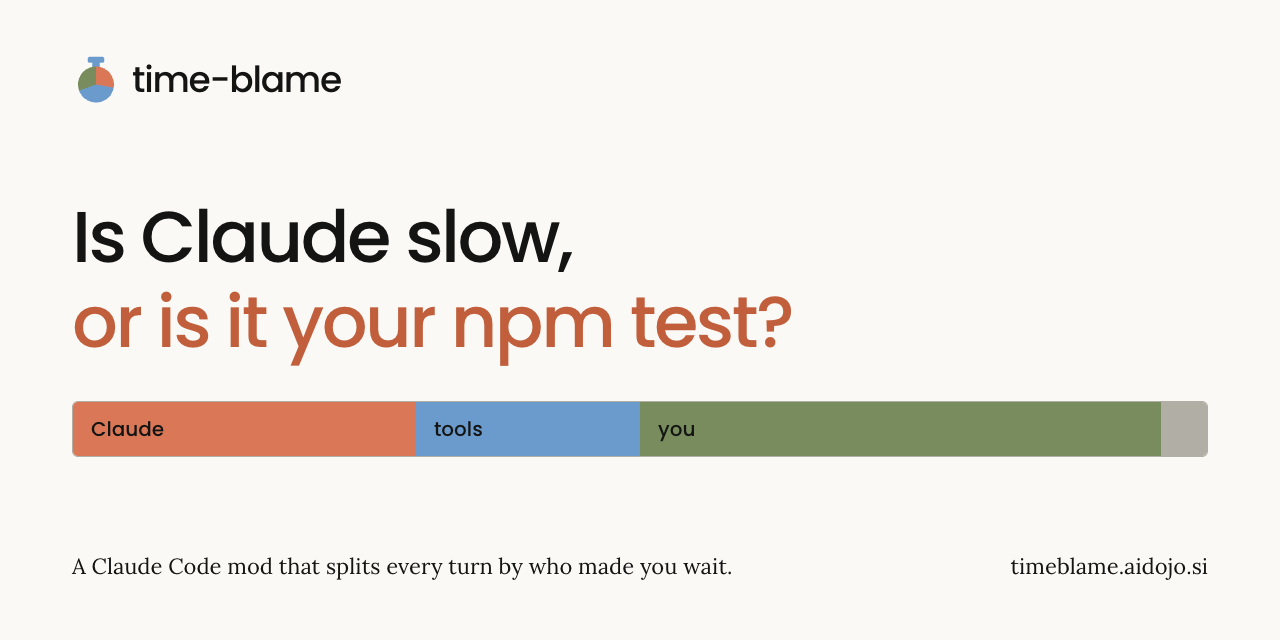
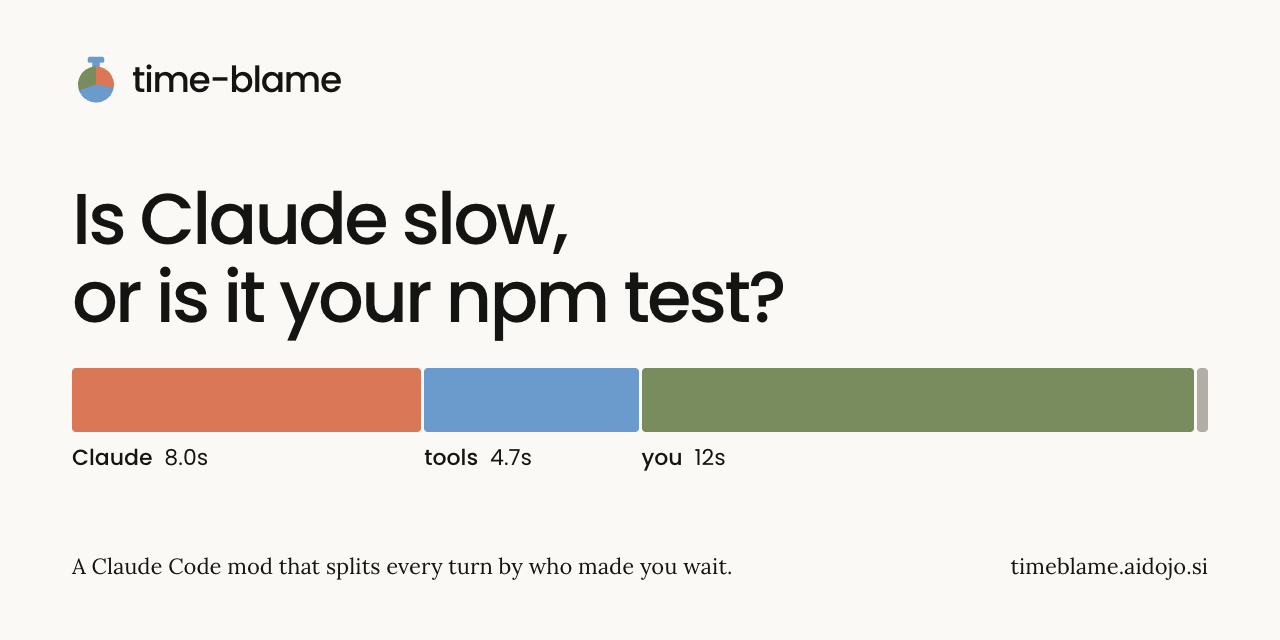
Lead with the real turn: hero bar, colour only for buckets, review fixes
The hero is now the 26-second turn as a bar that grows once on load,
with colour reserved for the four buckets: headline and button go ink.
Codex review: add the managed-install caveat to the limits list, and
draw the bar as a grid without padding so segment widths match the
numbers (the 1% sliver was rendering at 3 to 4%). Social card redrawn.

Changed region(s): [[0.0312, 0.2812, 0.9688, 0.75]]

diff --git a/site/index.html b/site/index.html
@@ -35,25 +35,32 @@
     </nav>
     <main id="main">
       <header>
-        <h1>Is Claude slow,<br><span>or is it your npm test?</span></h1>
-        <p class="lead">A mod for Claude Code. After every turn, one quiet line says where the time went: Claude, your tools, or you.</p>
-        <div class="actions"><a class="button" href="#install">Install time-blame</a><a class="text-link" href="#line">See a real turn <span aria-hidden="true">&rarr;</span></a></div>
-        <p class="fine-print">Free and open source. Claude Code 2.1.302+. Nothing leaves your machine, and Claude never reads the line.</p>
+        <h1>Is Claude slow,<br> or is it your npm test?</h1>
+        <figure class="turn" aria-label="A real 26 second turn: Claude 8.0 seconds, tools 4.7 seconds, you 12 seconds, other 0.3 seconds">
+          <div class="turn-bar" aria-hidden="true">
+            <div class="seg b-claude" style="--w: 31; --i: 0"></div>
+            <div class="seg b-tools" style="--w: 19; --i: 1"></div>
+            <div class="seg b-you" style="--w: 49; --i: 2"></div>
+            <div class="seg b-other" style="--w: 1; --i: 3"></div>
+          </div>
+          <div class="turn-key" aria-hidden="true">
+            <span style="--w: 31"><b>Claude</b> 8.0s</span>
+            <span style="--w: 19"><b>tools</b> 4.7s</span>
+            <span style="--w: 49"><b>you</b> 12s</span>
+            <span style="--w: 1"></span>
+          </div>
+          <figcaption>A real 26-second turn. The wait was mostly you: a permission dialog sat open for 12 seconds.</figcaption>
+        </figure>
+        <p class="lead">time-blame is a mod for Claude Code. After every turn, one quiet line says where the time went.</p>
+        <div class="actions"><a class="button" href="#install">Install time-blame</a><a class="text-link" href="#line">See the line it prints</a></div>
+        <p class="fine-print">Free and open source. Needs Claude Code 2.1.302 or later. Nothing leaves your machine, and Claude never reads the line.</p>
       </header>
 
       <section aria-labelledby="line">
         <h2 id="line">One line after every turn.</h2>
-        <p>This turn felt like 26 seconds of waiting on Claude. Claude spent 8 of them. A permission dialog sat open for 12.</p>
+        <p>It appears under any turn of 3 seconds or more, dim, so it never competes with the answer.</p>
         <pre class="quote line"><code>⏺ time-blame: 26s · Claude 8.0s (7.2s before output) · sleep 4.7s · you 12s · other 0.3s</code></pre>
-        <figure class="split" aria-label="Chart of the same turn: Claude 31 percent, tools 19 percent, you 49 percent, other 1 percent">
-          <div class="bar" aria-hidden="true">
-            <span class="b-claude" style="flex: 31">Claude</span>
-            <span class="b-tools" style="flex: 19">tools</span>
-            <span class="b-you" style="flex: 49">you</span>
-            <span class="b-other" style="flex: 1"></span>
-          </div>
-          <figcaption>The line is copied as text from a live session on Claude Code 2.1.302, 17 October 2026. The bar is a chart of the same numbers, not a screenshot.</figcaption>
-        </figure>
+        <p class="fine-print">Copied as text from a live session on Claude Code 2.1.302, 17 October 2026. The bar at the top of this page charts the same turn.</p>
       </section>
 
       <section aria-labelledby="receipt">
@@ -93,12 +100,13 @@ claude plugin install time-blame@time-blame</code></pre>
           <li>It measures this session on this machine. It says nothing about Anthropic's servers.</li>
           <li>Its total runs longer than Claude Code's own "Worked for", which leaves out the time a dialog waits for you.</li>
           <li>Retries have no bucket of their own. A retry that succeeds leaves no record a mod can read, so it counts as "before output".</li>
+          <li>Where an organization manages Claude Code, the events that time approvals skip personally installed mods, so dialog wait counts as tool time there.</li>
           <li>Bash commands are named only from a fixed list of common programs. A script name or path shows as "Bash".</li>
           <li>It reads timestamps, never the text of your prompts or Claude's answers. The <a href="https://github.com/karanb192/time-blame#what-it-can-reach">README lists its hooks and threat model</a>.</li>
         </ul>
       </section>
     </main>
-    <footer><p>time-blame · An open-source mod by <a href="https://github.com/karanb192">Karan Bansal</a> · Not affiliated with Anthropic</p><div><a href="https://github.com/karanb192/time-blame">Source and issues</a><a href="https://code.claude.com/docs/en/plugins/mods/overview">About Claude Code mods</a><a href="https://mods.aidojo.si/">More mods</a></div></footer>
+    <footer><p>time-blame is an open-source mod by <a href="https://github.com/karanb192">Karan Bansal</a>. It is not affiliated with Anthropic.</p><div><a href="https://github.com/karanb192/time-blame">Source and issues</a><a href="https://code.claude.com/docs/en/plugins/mods/overview">About Claude Code mods</a><a href="https://mods.aidojo.si/">More mods</a></div></footer>
   </div>
   <script>
     document.addEventListener('click', async (event) => {

diff --git a/site/styles.css b/site/styles.css
@@ -44,7 +44,7 @@
 * { box-sizing: border-box; }
 html { scroll-behavior: smooth; }
 body { margin: 0; background: var(--paper); color: var(--ink); font: 18px/1.6 var(--body); }
-::selection { background: var(--accent); color: #141413; }
+::selection { background: var(--tools); color: #141413; }
 :focus-visible { outline: 2px solid var(--ink); outline-offset: 5px; }
 a { color: inherit; text-underline-offset: 4px; text-decoration-thickness: 1px; }
 a:hover { text-decoration-color: var(--accent); text-decoration-thickness: 2px; }
@@ -63,14 +63,13 @@ nav { display: flex; justify-content: space-between; align-items: center; gap: 2
 .github-link svg { flex-shrink: 0; }
 header { padding: 88px 0 64px; }
 h1, h2 { font-family: var(--heading); font-weight: 400; text-wrap: balance; }
-h1 { font-size: clamp(44px, 5vw, 68px); font-weight: 500; line-height: 1.18; letter-spacing: -.035em; margin: 0 0 30px; }
-h1 span { color: var(--title-accent); }
+h1 { max-width: 15ch; font-size: clamp(44px, 5.4vw, 76px); font-weight: 500; line-height: 1.08; letter-spacing: -.04em; margin: 0 0 48px; }
 h2 { font-size: clamp(30px, 3vw, 40px); line-height: 1.2; letter-spacing: -.025em; margin: 0 0 22px; }
 h2[id] { scroll-margin-top: 28px; }
 p { max-width: 70ch; margin: 0 0 20px; }
 .lead { max-width: 58ch; font-size: 22px; line-height: 1.5; color: var(--muted); }
 .actions { display: flex; gap: 28px; align-items: center; flex-wrap: wrap; margin: 30px 0 20px; }
-.button, button { display: inline-flex; align-items: center; justify-content: center; min-height: 48px; padding: 10px 22px; border: 1px solid var(--accent); border-radius: 6px; background: var(--accent); color: #141413; text-decoration: none; font: 500 16px/1.5 var(--heading); cursor: pointer; }
+.button, button { display: inline-flex; align-items: center; justify-content: center; min-height: 48px; padding: 10px 22px; border: 1px solid var(--ink); border-radius: 6px; background: var(--ink); color: var(--paper); text-decoration: none; font: 500 16px/1.5 var(--heading); cursor: pointer; }
 .button:hover, button:hover { background: var(--well); border-color: var(--ink); color: var(--ink); }
 button:disabled { opacity: .65; cursor: wait; }
 .text-link { display: inline-flex; align-items: center; gap: 12px; min-height: 48px; font-size: 16px; }
@@ -96,11 +95,18 @@ footer p { margin-bottom: 12px; }
 footer div { display: flex; flex-wrap: wrap; gap: 24px; }
 footer a { display: inline-block; padding-block: 6px; }
 
+.turn { margin: 0 0 44px; }
+.turn-bar, .turn-key { display: grid; grid-template-columns: 31fr 19fr 49fr 1fr; gap: 3px; }
+.turn-bar { height: clamp(72px, 9vw, 112px); }
+.seg { border-radius: 4px; transform-origin: left center; animation: grow .55s cubic-bezier(.2, .7, .2, 1) both; animation-delay: calc(var(--i) * .5s + .2s); }
+@keyframes grow { from { transform: scaleX(0); } }
+.turn-key { margin-top: 12px; font: 400 17px/1.3 var(--heading); }
+.turn-key span { white-space: nowrap; overflow: visible; }
+.turn-key b { font-weight: 500; margin-right: 6px; }
+.turn figcaption { margin-top: 18px; font-size: 19px; color: var(--ink); max-width: 60ch; }
 pre.quote { white-space: pre; overflow-x: auto; overflow-wrap: normal; font-size: 14px; }
 pre.quote.line { white-space: pre-wrap; overflow-wrap: anywhere; }
 .split { margin-top: 28px; }
-.bar { display: flex; height: 44px; border-radius: 6px; overflow: hidden; border: 1px solid var(--line); }
-.bar span { display: flex; align-items: center; padding-inline: 12px; min-width: 0; overflow: hidden; white-space: nowrap; color: var(--on-bucket); font: 500 15px/1 var(--heading); }
 .b-claude { background: var(--claude); }
 .b-tools { background: var(--tools); }
 .b-you { background: var(--you); }
@@ -113,7 +119,8 @@ pre.quote.line { white-space: pre-wrap; overflow-wrap: anywhere; }
 @media (max-width: 700px) {
   .page { padding-inline: 24px; }
   .buckets { grid-template-columns: 1fr; }
-  .bar span { padding-inline: 6px; font-size: 13px; }
+  .turn-key { grid-template-columns: 1fr 1fr 1fr; font-size: 15px; }
+  .turn-key span:last-child { display: none; }
   pre.quote { font-size: 12px; }
   nav { min-height: 88px; gap: 16px; }
   .wordmark { font-size: 26px; }
@@ -137,6 +144,7 @@ pre.quote.line { white-space: pre-wrap; overflow-wrap: anywhere; }
 
 @media (prefers-reduced-motion: reduce) {
   html { scroll-behavior: auto; }
+  .seg { animation: none; }
 }
 
 :root[data-theme="light"] { color-scheme: light; }

diff --git a/site/social-card.html b/site/social-card.html
@@ -9,21 +9,20 @@
     body { width: 1280px; height: 640px; padding: 56px 72px; display: flex; flex-direction: column; }
     .wordmark { font-size: 36px; }
     .wordmark img { width: 48px; height: 48px; }
-    h1 { font-size: 72px; margin: auto 0 36px; }
-    .bar { height: 56px; margin-bottom: auto; }
-    .bar span { font-size: 20px; padding-inline: 18px; }
+    h1 { font-size: 72px; max-width: none; margin: auto 0 32px; }
+    .turn-bar { height: 64px; }
+    .seg { animation: none; }
+    .turn-key { font-size: 22px; margin-bottom: auto; }
     .caption { display: flex; justify-content: space-between; color: var(--muted); font-size: 22px; }
   </style>
 </head>
 <body>
   <div class="wordmark"><img src="favicon.svg" width="48" height="48" alt="">time-blame</div>
-  <h1>Is Claude slow,<br><span>or is it your npm test?</span></h1>
-  <div class="bar" aria-hidden="true">
-    <span class="b-claude" style="flex: 31">Claude</span>
-    <span class="b-tools" style="flex: 19">tools</span>
-    <span class="b-you" style="flex: 49">you</span>
-    <span class="b-other" style="flex: 1"></span>
+  <h1>Is Claude slow,<br>or is it your npm test?</h1>
+  <div class="turn-bar" aria-hidden="true">
+    <div class="seg b-claude"></div><div class="seg b-tools"></div><div class="seg b-you"></div><div class="seg b-other"></div>
   </div>
+  <div class="turn-key" aria-hidden="true"><span><b>Claude</b> 8.0s</span><span><b>tools</b> 4.7s</span><span><b>you</b> 12s</span><span></span></div>
   <div class="caption"><span>A Claude Code mod that splits every turn by who made you wait.</span><span>timeblame.aidojo.si</span></div>
 </body>
 </html>
